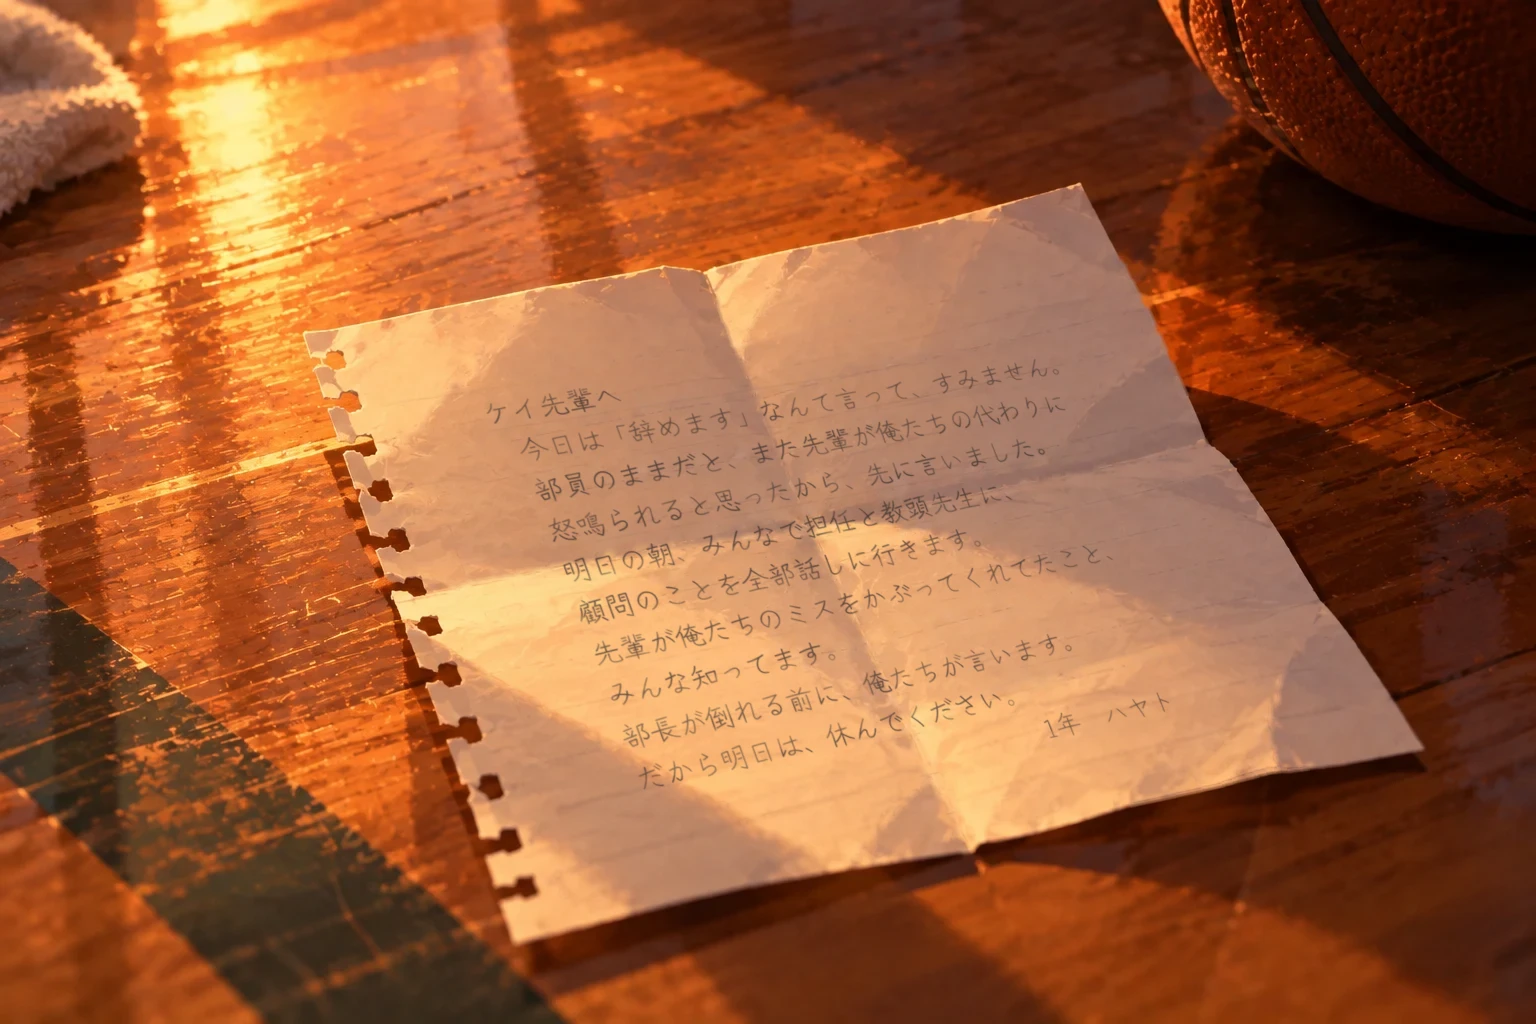
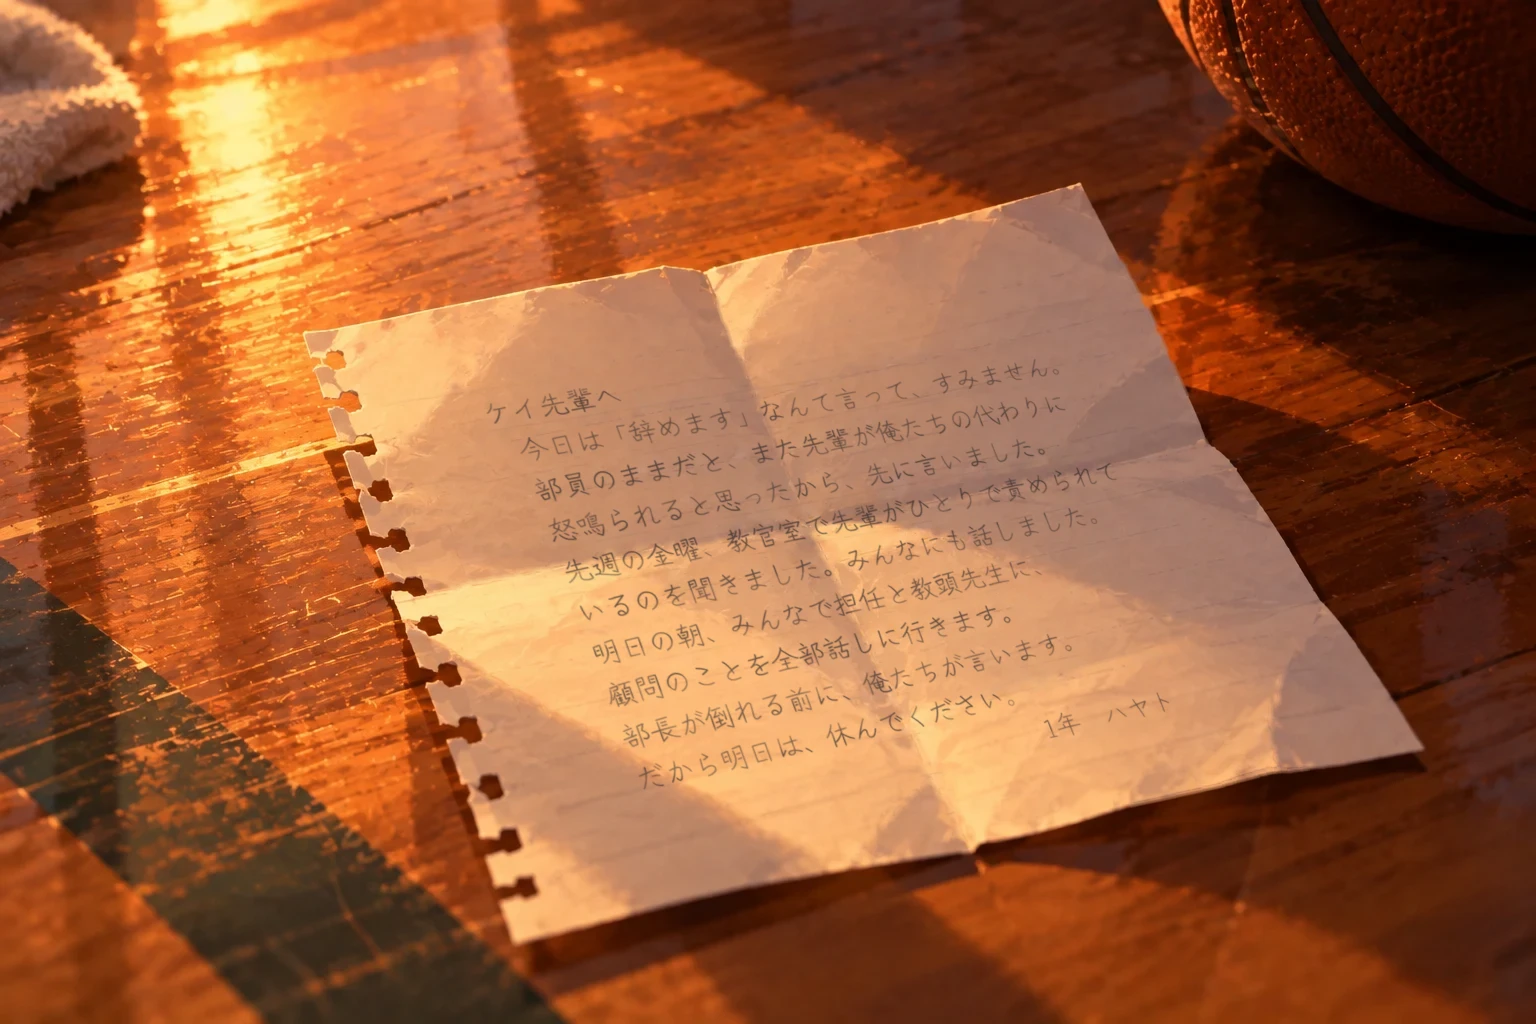
4章：教官室でひとり責められていた描写を追加し、手紙と「知ってたのかよ」をつなげる

Changed region(s): [[0.375, 0.4688, 0.6875, 0.6875]]

diff --git a/index.html b/index.html
@@ -3544,8 +3544,8 @@
     await overlayWait(`<p class="eyebrow">持ち物</p><h2>ハヤトの手紙</h2><img class="cg" src="img/g_letter.webp" alt="ノートを破った紙に、鉛筆で書かれた手紙">
       <div class="quote"><p>ケイ先輩へ</p>
       <p>今日は「辞めます」なんて言って、すみません。部員のままだと、また先輩が俺たちの代わりに怒鳴られると思ったから、先に言いました。</p>
+      <p>先週の金曜、教官室で先輩がひとりで責められているのを聞きました。みんなにも話しました。</p>
       <p>明日の朝、みんなで担任と教頭先生に、顧問のことを全部話しに行きます。</p>
-      <p>先輩が俺たちのミスをかぶってくれてたこと、みんな知ってます。</p>
       <p>部長が倒れる前に、俺たちが言います。だから明日は、休んでください。</p>
       <p>1年　ハヤト</p></div>`, '', ['閉じる']);
     closeOverlay();
@@ -3885,13 +3885,16 @@
                  ['ケイ', '一年が怒鳴られそうになったら、俺が先にミスしたことにするんだ。そしたら、怒鳴られるのは俺だけで済むから', 'down'],
                  ['ケイ', 'ほかの部がいる時間は、まだましなんだ。怒鳴り声が聞こえても、みんな「バスケ部、また絞られてる」で終わりだから', 'down'],
                  ['ケイ', 'ミスの罰は、ほかの部が帰ったあとの延長で、まとめて。コートの往復ダッシュ。……一年の分は、俺が代わりに走ってる。顧問も「部長の指導不足だ」って、それで済ませるから', 'down'],
+                 ['ケイ', 'きついのは、そのあと。鍵を返しに教官室へ行くと、顧問がひとりで待ってるんだ', 'down'],
+                 ['ケイ', 'その日の一年のミスを、ひとつずつ並べられる。「全部、部長のお前の責任だ」って。……三十分くらい、ずっと', 'down'],
+                 ['ケイ', 'あいつらには「鍵を返すだけだから、先に帰れ」って言ってある。……知らなくていいことだから', 'sad'],
                  ['ケイ', '最近、朝ごはん、のどを通らなくてさ。無理に食べても、体育館の前で戻しちゃう', 'sad'],
                  ['ケイ', '夜も、目をつぶると笛の音がして、眠れない', 'down'],
                  'ケイの呼吸が、急に浅く、速くなった。',
                  ['ケイ', '……っ、は……だい、じょうぶ……いつもの、やつ', 'breath'],
                  '背中をさすると、しばらくして、ケイの息はゆっくり戻っていった。',
                  ['ケイ', '……ごめん。驚かせた', 'sad'],
-                 ['ケイ', '顧問に言われてるんだ。「土曜負けたら部長の責任だ。お前が部長を辞めろ」って', 'sad'],
+                 ['ケイ', '教官室で、毎日言われてるんだ。「土曜負けたら部長の責任だ。お前が部長を辞めろ」って', 'sad'],
                  ['ケイ', 'それで今日、ハヤトが来て。……「もう辞めます」って', 'teary'],
                  ['ケイ', '顧問、それ聞いて「今日はもういい、帰れ」って。延長も取り消して、出ていった', 'down'],
                  ['ケイ', '守ってたつもりだったんだけどな。……あいつにまで、見捨てられたのかなって', 'teary']]);
@@ -3951,7 +3954,7 @@
       else await say(['ケイを作戦ボードの前に連れていき、マグネットのすき間を指さした。', '小さく折りたたんだ紙が、ひらりと落ちた。']);
       await say(['ケイは、震える指で紙を開いた。', '「ケイ先輩へ。……部長が倒れる前に、俺たちが言います。だから明日は、休んでください」',
                  ['ケイ', '……あいつら、知ってたのかよ', 'surprise'],
-                 ['ケイ', '俺が怒鳴られてたの……全部', 'sad'],
+                 ['ケイ', '鍵を返したあと、教官室で言われてたこと……全部', 'sad'],
                  ['ケイ', 'ハヤトの「辞めます」って、これ……', 'sad'],
                  ['ケイ', '担任と教頭……顧問と仲のいい先生じゃなくて。それに、五人そろってか', 'sad'],
                  ['ケイ', '守ってたつもりで、俺……守られてたんだな', 'teary'],
